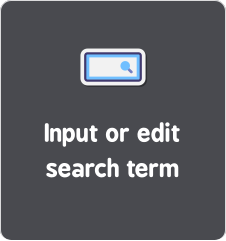
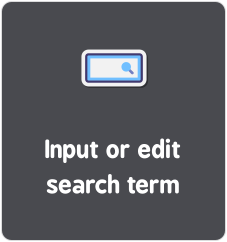
Search now displays running results count + better graphics

Changed region(s): [[0.1858, 0.4938, 0.8053, 0.8133], [0.0, 0.0, 1.0, 1.0], [0.3407, 0.1743, 0.6504, 0.3776]]

diff --git a/src/search/search.hpp b/src/search/search.hpp
@@ -22,19 +22,23 @@ const string DB_PATH = DB_NAME + "/" + CACHE_NAME(DB_NAME);
 
 static SDL_Surface* search_icon = NULL;
 
-void updateDisplay(Display *display, string message)
+void updateDisplay(Display *display, string msg, string submsg = "")
 {
     display->clear();
 
     if (search_icon)
         display->blit(search_icon, {
             320 - search_icon->w / 2,
-            180 - search_icon->h / 2,
+            150 - search_icon->h / 2,
             search_icon->w,
             search_icon->h
         });
 
-    display->centerText(message, {320, 300}, display->fonts.display);
+    display->centerText(msg, {320, 240}, display->fonts.display);
+
+    if (submsg.length() > 0)
+        display->centerText(submsg, {320, 310});
+
     display->flip();
 }
 
@@ -70,6 +74,11 @@ void addEmptyLines(sqlite3* db, int &total_lines)
             .disp = "~",
             .path = "noop"
         });
+}
+
+string totalTextMessage(int total)
+{
+    return total == 0 ? "No results" : to_string(total) + " result" + (total == 1 ? "" : "s");
 }
 
 void performSearch(Display* display, string keyword)
@@ -112,9 +121,13 @@ void performSearch(Display* display, string keyword)
 
     vector<string> missing_caches;
 
+    string status_main = "";
+    string status_sub = "";
+
     for (auto &config : configs) {
         current_emu++;
-        updateDisplay(display, "Searching: " + to_string(current_emu) + "/" + to_string(total_emu));
+        status_main = "Searching: " + to_string(current_emu) + "/" + to_string(total_emu);
+        updateDisplay(display, status_main, status_sub);
 
         string rom_path = fullpath(config.path, config.rompath);
         string launch_cmd = fullpath(config.path) + "/" + config.launch;
@@ -138,6 +151,9 @@ void performSearch(Display* display, string keyword)
 
         total += subtotal;
 
+        status_sub = totalTextMessage(total);
+        updateDisplay(display, status_main, status_sub);
+
         db::insertRom(db, DB_NAME, {
             .disp = label,
             .path = rom_path,
@@ -158,7 +174,7 @@ void performSearch(Display* display, string keyword)
         }
     }
 
-    updateDisplay(display, "Done");
+    updateDisplay(display, "Done", totalTextMessage(total));
 
     string all_label = "All consoles (" + to_string(total) + ")";
 
@@ -174,7 +190,7 @@ void performSearch(Display* display, string keyword)
         db::insertRom(db, DB_NAME, {
             .disp = "No results",
             .path = "clear",
-            .imgpath = DB_DIR + "/../res/icon_unavailable.png",
+            .imgpath = DB_DIR + "/../res/help_clear_search.png",
             .type = 0,
             .ppath = all_label
         });
